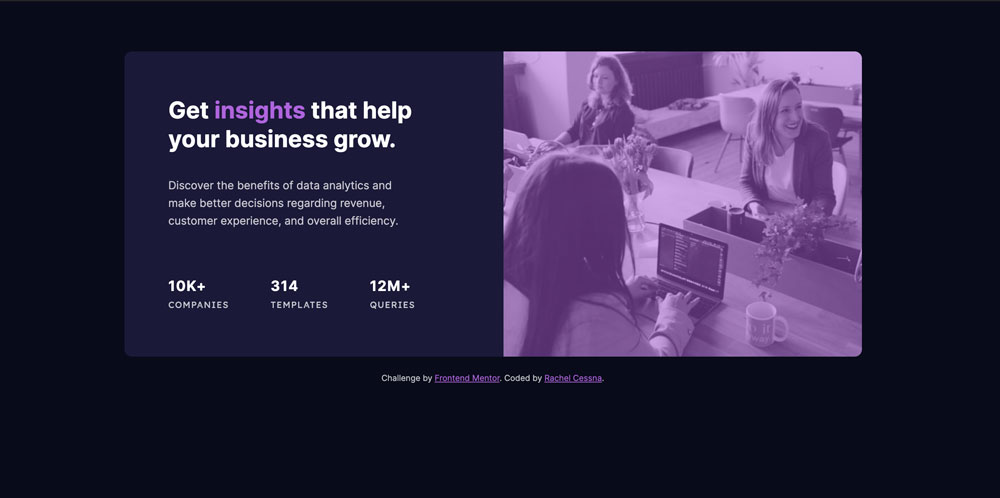
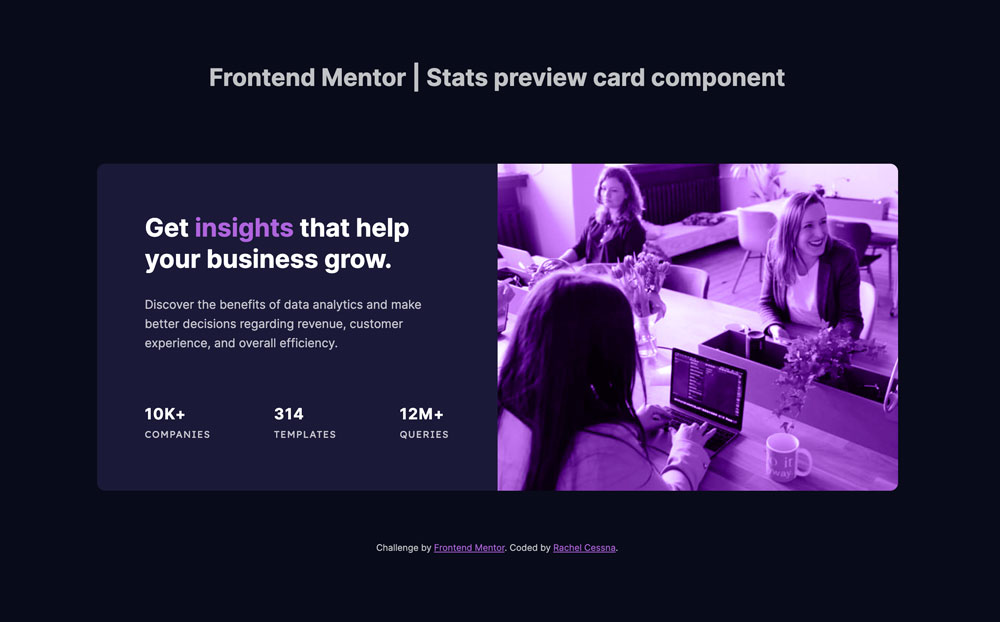
Updates Screenshots
And updates to body and footer padding

diff --git a/styles/styles.css b/styles/styles.css
@@ -15,7 +15,12 @@ body {
   font-size: 15px;
   color: rgba(255, 255, 255, 0.75);
   min-height: 100vh;
-  padding: 4em 2em;
+  padding: 2em 1em;
+}
+@media screen and (min-width: 900px) {
+  body {
+    padding: 4em 2em;
+  }
 }
 
 h1 {
@@ -125,7 +130,12 @@ h1 {
 .attribution {
   font-size: 0.7rem;
   text-align: center;
-  margin-top: 4rem;
+  margin-top: 2rem;
+}
+@media screen and (min-width: 900px) {
+  .attribution {
+    margin-top: 4rem;
+  }
 }
 .attribution a {
   color: #af64dd;

diff --git a/styles/styles.sass b/styles/styles.sass
@@ -29,7 +29,9 @@ body
     font-size: $base-font-size
     color: $trans-white-p
     min-height: 100vh
-    padding: 4em 2em
+    padding: 2em 1em
+    @media screen and (min-width: $desktop-screen)
+        padding: 4em 2em
 
 h1
     text-align: center
@@ -107,6 +109,8 @@ h1
 .attribution
     font-size: .7rem
     text-align: center
-    margin-top: 4rem
+    margin-top: 2rem
+    @media screen and (min-width: $desktop-screen)
+        margin-top: 4rem
     a
         color: $accent
